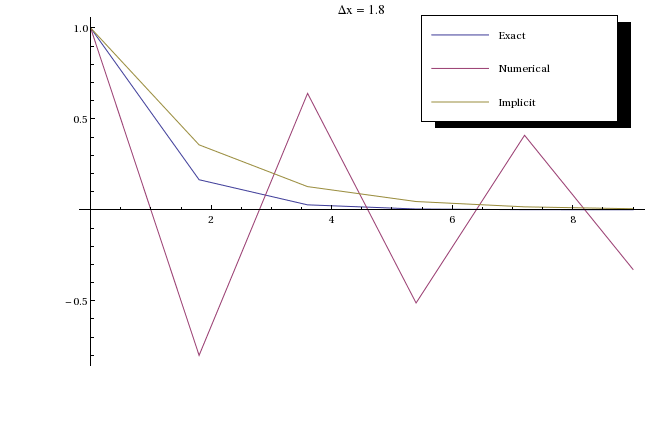
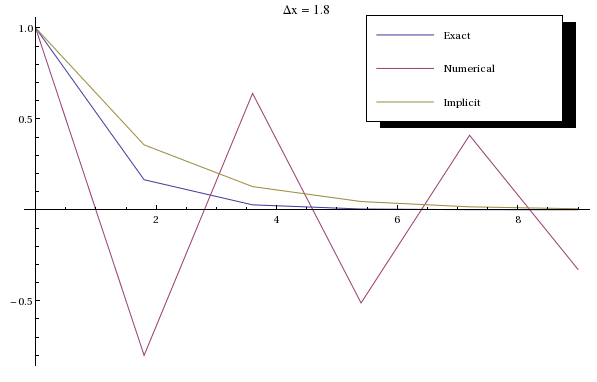
trim the pngs of white space. include plots in writeup.

diff --git a/toys/diffeq/simulator.tex b/toys/diffeq/simulator.tex
@@ -2,6 +2,7 @@
 \usepackage{amsmath}
 \usepackage{amsfonts}
 \usepackage{amssymb}
+\usepackage{graphicx} 
 
 \title{Properties of numerical integrators}
 \author{Les Schaffer\\ Joseph Shearer}
@@ -15,7 +16,9 @@ Let's take the differential equation
 \frac{dy}{dx}&=-y\\
 y(x=0)&=y_0
 \end{align}
-It has a solution $y(x) = y_0\, e^{-x}$; what if we try to approximate the solution numerically? The standard approach is to approximate the derivative as $dy/dx\approx (y_{n+1} - y_n)/\Delta x$ so that the differential equation is converted to a finite difference equation $(y_{n+1} - y_n)/\Delta x = - y_n$ to produce the algorithm:
+It has a solution $y(x) = y_0\, e^{-x}$; what if we try to approximate the solution numerically? 
+
+The standard approach is to approximate the derivative as $dy/dx\approx (y_{n+1} - y_n)/\Delta x$ so that the differential equation is converted to a finite difference equation $(y_{n+1} - y_n)/\Delta x = - y_n$ to produce the algorithm:
 \begin{align}
 y_{n+1} &= y_n - \Delta x\, y_n\\
 y_0 &= y_0
@@ -32,7 +35,30 @@ y_n &= (-\alpha)^n\, y_0 \quad\hbox{\rm decreases by oscillation around zero, to
 y_n &= (-1)^n\, y_0\quad\hbox{\rm for all $n>=1$}\\
 y_n &= \beta^n\, y_0\quad\hbox{\rm increases monotonically to  $\pm\infty$}
 \end{align}
-Only the case $\Delta x < 1$ corresponds with the real solution. We can compare this solution to the exact solution, at the points $x$ calculated numerically:
+Only the case $\Delta x < 1$ corresponds with the real solution.
+
+\section{Improvements to first order numerical solutions}
+Is there a way to improve the performance of the first order solution? Consider the implicit method
+\begin{align}
+\frac{dy}{dx} \approx (y_{n+1}-y_n)/\Delta x &= - y_{n+1}\\
+(1+\Delta x)\, y_{n+1} &= y_n\\
+y_n &= \left(\frac{1}{1+\Delta x}\right)^n\, y_0
+\end{align}
+which decreases to zero for all values of $\Delta x$!!! This method does not have any of the oscillatory or instability behavior of the first method. 
+
+A comparison of the exact, numerical (eq. 5) and implicit numerical (eq. 13) is shown in Figure 1, for $y_0=1$ and $\Delta x=1.8$,  which puts us in the behavior described in eq. 8 for the first numerical scheme. Notice how the implicit scheme still does a decent job of describing the exponential decrease. 
+\begin{figure}[ht]
+\includegraphics[scale=0.65]{ode1.png} 
+\caption{Comparison of standard and implicit numerical scheme for $\Delta x=1.8$, along with exact solution to differential equation. for $y_0=1$.  }
+\end{figure}
+Similarly, Figure 2 compares the behavior of the first numerical scheme (eq. 5) with the implicit scheme, where the $\Delta x$ of the latter is $4$ times that of the former. Clearly the implicit solution does a better job for larger $\Delta x$. 
+\begin{figure}[ht]
+\includegraphics[scale=0.65]{ode2.png} 
+\caption{Comparison of implicit ($\Delta x=0.8$) to standard $(\Delta x=0.2)$ numerical scheme for $y_0=1$, along with exact solution to differential equation. }
+\end{figure}
+
+\section{Error analysis}
+ We can compare the numerical solution to the exact solution, at the points $x$ calculated numerically:
 \begin{equation}
 y_n/(y_0\, e^{-x})_{x=x_n} = (1-\Delta x)^n e^{n\Delta x}
 \end{equation}
@@ -46,13 +72,5 @@ which does grow like the exact solution $y_0 \, e^x$. The fractional error is
 \begin{equation}
 (y_0\, e^x - y_n)/(y_0\, e^x) = 1 - (1+\Delta x)^n e^{-n \Delta x}
 \end{equation}
-
-\section{Improvements to first order numerical solutions}
-Is there a way to improve the performance of the first order solution? Consider the implicit method
-\begin{align}
-\frac{dy}{dx} \approx (y_{n+1}-y_n)/\Delta x &= - y_{n+1}\\
-(1+\Delta x)\, y_{n+1} &= y_n\\
-y_n &= \left(\frac{1}{1+\Delta x}\right)^n\, y_0
-\end{align}
-which decreases to zero for all values of $\Delta x$!!!
+To be continued ... 
 \end{document}
